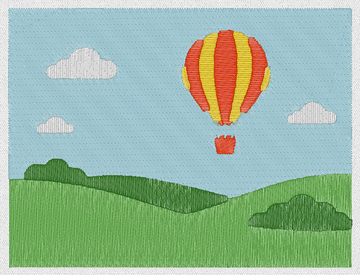
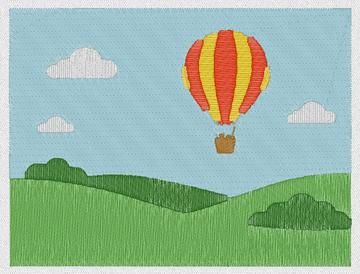
Auto Punch OpenStitch mode keeps a small distinct colour drawn as a solid patch: g02's brown basket (#962) (#969)
* Auto Punch OpenStitch mode keeps a small distinct colour drawn as a solid patch (#962)

The automatic count also counts a colour of a flat picture under AUTO_SHARE
(at least a tenth of it) that is DE76 >= 30 from every colour with a real share
and drawn as a solid patch (30 % of its pixels with all four neighbours in it):
g02's basket brown (0.47 %, chroma about 35) gets Light Brown instead of the
balloon's red. Anti-aliased seams (g08's letter edges) don't count. PE-compatible
mode unchanged. Ten image_eval cases: only g02 (6 -> 7) and g05 (7 -> 8, the
shoes' highlights) change, likeness not lower. Balloon kit file regenerated
with --only.

* clippy: is_multiple_of in solid_share (#962)

---------

diff --git a/crates/openstitch-digitize/src/palette.rs b/crates/openstitch-digitize/src/palette.rs
@@ -101,6 +101,81 @@ impl Census {
             .count()
             .clamp(1, max.max(1))
     }
+
+    /// OpenStitch mode's automatic count (#962): [`Census::auto_colors_up_to`] plus the small
+    /// colours of a flat picture that are far from every colour with a real share
+    /// ([`distinct_small`]), however unsaturated, and drawn as a solid patch, not a seam: at
+    /// least [`SOLID_SHARE`] of their pixels have all four neighbours in the same colour. g02's
+    /// basket brown holds 0.47 % of the pixels, just under [`AUTO_SHARE`], at chroma about 35,
+    /// and without a thread of its own it was sewn in the balloon's red; the anti-aliased edges
+    /// of g08's letters are as far from its colours but one or two pixels wide. `width` is the
+    /// census image's width in pixels.
+    pub fn auto_colors_distinct_up_to(&self, max: usize, width: usize) -> usize {
+        let extra = distinct_small(&self.colors)
+            .into_iter()
+            .filter(|&c| self.solid_share(c, width) >= SOLID_SHARE)
+            .count();
+        (self.auto_colors_up_to(max) + extra).clamp(1, max.max(1))
+    }
+
+    /// The share of the pixels counted under tracked colour `c` (their nearest tracked colour)
+    /// whose four neighbours are counted under it too.
+    fn solid_share(&self, c: Rgb, width: usize) -> f64 {
+        if width == 0 || !self.modal.len().is_multiple_of(width) {
+            return 0.0;
+        }
+        let height = self.modal.len() / width;
+        let of = |p: Option<Rgb>| {
+            p.is_some_and(|p| {
+                self.colors
+                    .iter()
+                    .min_by_key(|k| sq_dist(p, k.0))
+                    .is_some_and(|k| k.0 == c)
+            })
+        };
+        let mine: Vec<bool> = self.modal.iter().map(|&p| of(p)).collect();
+        let (mut all, mut solid) = (0usize, 0usize);
+        for y in 0..height {
+            for x in 0..width {
+                if !mine[y * width + x] {
+                    continue;
+                }
+                all += 1;
+                if x > 0
+                    && y > 0
+                    && x + 1 < width
+                    && y + 1 < height
+                    && [
+                        y * width + x - 1,
+                        y * width + x + 1,
+                        (y - 1) * width + x,
+                        (y + 1) * width + x,
+                    ]
+                    .iter()
+                    .all(|&i| mine[i])
+                {
+                    solid += 1;
+                }
+            }
+        }
+        if all == 0 {
+            0.0
+        } else {
+            solid as f64 / all as f64
+        }
+    }
+}
+
+/// The least share of a small colour's pixels with all four neighbours in it for OpenStitch
+/// mode's automatic count to give it a thread (#962): a solid patch, not an anti-aliased seam.
+const SOLID_SHARE: f64 = 0.3;
+
+/// The census colours of a flat picture (at most [`PROTECT_FLAT`]) smaller than
+/// [`AUTO_SHARE`] (but at least a tenth of it) and at least [`PROTECT_DE`] from every colour
+/// with a real share, at most [`PROTECT_MAX`], largest first: [`protected`] without its chroma
+/// rule (#962, OpenStitch mode).
+fn distinct_small(hist: &[(Rgb, u64)]) -> Vec<Rgb> {
+    small_colours(hist, 0.0)
 }
 
 /// A colour this saturated (CIELAB chroma) may keep its own box in PE-compatible mode however
@@ -118,6 +193,11 @@ const PROTECT_FLAT: usize = 40;
 /// most [`PROTECT_MAX`], smaller than [`AUTO_SHARE`], saturated, and far from every colour that
 /// has a real share. Largest first.
 fn protected(hist: &[(Rgb, u64)]) -> Vec<Rgb> {
+    small_colours(hist, PROTECT_CHROMA)
+}
+
+/// [`protected`] and [`distinct_small`]: the small, far colours at least `chroma` saturated.
+fn small_colours(hist: &[(Rgb, u64)], chroma: f64) -> Vec<Rgb> {
     let total: u64 = hist.iter().map(|c| c.1).sum();
     // Flat graphics only: a photo's census is full of shades, and its small saturated ones
     // are highlights PE-DESIGN merges (p07's pinks).
@@ -135,7 +215,7 @@ fn protected(hist: &[(Rgb, u64)]) -> Vec<Rgb> {
         .filter(|c| share(c) < AUTO_SHARE && share(c) >= AUTO_SHARE / 10.0)
         .filter(|c| {
             let l = crate::perceptual::lab(c.0);
-            l[1].dhypot(l[2]) >= PROTECT_CHROMA
+            l[1].dhypot(l[2]) >= chroma
                 && big.iter().all(|b| {
                     ((b[0] - l[0]).powi(2) + (b[1] - l[1]).powi(2) + (b[2] - l[2]).powi(2)).sqrt()
                         >= PROTECT_DE
@@ -1069,5 +1149,40 @@ mod nearest_in_tests {
             nearest_in([255, 255, 255], &[]),
             nearest_pec([255, 255, 255]).1
         );
+    }
+}
+
+#[cfg(test)]
+mod distinct_small_tests {
+    use super::*;
+
+    /// A 200 × 200 picture: white with a large blue disc's worth of blue, and `extra` drawn in
+    /// brown ([142, 91, 47], g02's basket: chroma about 35, ΔE 47 from the red).
+    fn picture(extra: impl Fn(u32, u32) -> bool) -> Census {
+        let image = Raster::from_fn(200, 200, |x, y| {
+            if extra(x, y) {
+                [142, 91, 47, 255]
+            } else if x < 100 {
+                [30, 60, 200, 255]
+            } else if y < 40 {
+                [229, 76, 44, 255]
+            } else {
+                [255, 255, 255, 255]
+            }
+        })
+        .expect("raster");
+        census(&image)
+    }
+
+    /// #962: OpenStitch mode's automatic count gives a small, unsaturated colour far from every
+    /// other its own thread when it is a solid patch (a 13 × 13 px square, 0.42 % of the
+    /// pixels, under AUTO_SHARE), not when it is a two-pixel seam of about the same size.
+    #[test]
+    fn a_small_distinct_patch_counts_and_a_seam_does_not() {
+        let patch = picture(|x, y| (150..163).contains(&x) && (120..133).contains(&y));
+        assert_eq!(patch.auto_colors_up_to(AUTO_MAX), 3, "the share rule alone");
+        assert_eq!(patch.auto_colors_distinct_up_to(AUTO_MAX, 200), 4);
+        let seam = picture(|x, y| (150..152).contains(&x) && (100..190).contains(&y));
+        assert_eq!(seam.auto_colors_distinct_up_to(AUTO_MAX, 200), 3);
     }
 }

diff --git a/crates/openstitch-digitize/src/autopunch.rs b/crates/openstitch-digitize/src/autopunch.rs
@@ -742,7 +742,7 @@ pub fn convert(image: &Raster, frame: &Frame, p: &AutoPunch) -> Result<Converted
     let colors = match p.colors {
         0 => match p.mode {
             Mode::PeDesign => census.auto_colors(),
-            Mode::OpenStitch => census.auto_colors_up_to(p.fidelity.auto_max()),
+            Mode::OpenStitch => census.auto_colors_distinct_up_to(p.fidelity.auto_max(), w),
         },
         n => n.min(64),
     };

diff --git a/docs/FEATURE_MATRIX.md b/docs/FEATURE_MATRIX.md
@@ -122,7 +122,7 @@ PE-DESIGN reference, sew-out) is generated from the compatibility report into
 | Lettering | Name Drop (text list replacement): Name Drop attribute fits any replacement into the text's box (maintain aspect ratio; left/center/right, top/middle/bottom; resets spacing; refused for text on a path, monograms, user-mapped text); list with one column per Name Drop text, up to 500 rows, CSV import/save; To Folder writes `<name>001…` one file per row, every row validated before anything is written | Implemented (engine, editor Lettering ▸ Name Drop List…) | `text.setNameDrop`, `nameDrop.list`, `nameDrop.apply`, `nameDrop.readCsv`, `nameDrop.writeCsv`, `nameDrop.export`; `replacement_text_fits_the_original_box`, `turning_name_drop_on_resets_spacing`, `rows_are_applied_and_exported_one_file_per_row`, `a_bad_row_writes_nothing`, `name_drop_bad_input_fails_cleanly`, `name_drop_list_edits_rows_and_exports`; examples/name-drop.json, docs/images/engine-name-drop.png, docs/images/rust-editor-name-drop.png | USB Link / Wireless Link sending to machines; live preview while moving through rows; PE-DESIGN's exact CSV layout (not described in the guide) |
 | Lettering | Converting CJK characters; TrueType conversion: a user-chosen .ttf/.otf/.ttc file is checked (24 MiB, table bounds, Unicode cmap, collection header; parser panics contained), embedded in the `.osd` (16 fonts, 40 MiB per design) and used by text objects; glyphs over 20 000 outline segments count as missing, a text is capped at 600 000; complex scripts are shaped (row above); scripts that need shaping are reported (`shaping`) only for embroidery fonts, which are not shaped | Implemented (engine, editor menu) | `fonts.loadTrueType`, `fonts.remove`, `fonts.list`; `a_user_font_lays_out_like_the_same_bundled_font`, `fonts_travel_with_the_design_and_undo`, `hostile_font_files_fail_cleanly`, `hostile_project_fonts_are_refused`, `hostile_font_files_are_refused`, `font_loading_obeys_the_sandbox_and_capabilities`, `text_in_scripts_the_font_lacks_is_missing_not_unshaped`, `cjk_text_with_the_bundled_test_font` (Noto Sans JP test subset), `cjk_text_with_a_system_font` (also, when the machine has a CJK font); examples/user-fonts.json, docs/images/engine-user-fonts.png; engine `coverage_lettering.rs`: `a_design_holds_at_most_sixteen_fonts`, `a_design_holds_at_most_forty_mib_of_fonts` | TTF Settings (style/script choice per text); font files over 24 MiB (large CJK collections); compare conversion with PE-DESIGN |
 | Digitizing | Stitch Wizard / Image To Stitch Wizard | Implemented (editor, approximation) | Design → Image to Embroidery… dialog over the `digitize.*` commands; `every_method_converts_in_one_command`, `requests_carry_the_settings`; docs/images/rust-editor-image-wizard.png, rust-editor-autopunch.png; 30 test images in `examples/images` (docs/research/test-images.md) and the README's "From image to embroidery" gallery of 14 conversions in the Realistic view (`tools/gallery.py`); same stitches on every platform: all digitizing maths through `fmath::Det`, source scan `openstitch-digitize` `tests::the_crate_uses_no_platform_transcendental_functions`, golden hashes `openstitch_mode_output_is_identical_on_every_platform` | Image preview and live result preview in the dialog; masks and cropping |
-| Digitizing | Auto Punch (mask, border, parameters) | Implemented (engine, approximation; #127 pipeline since 2026-10-29; compared with PE-DESIGN 11.50's capture 2026-10-29) | `digitize.autoPunch`; a satin region whose crossings would pass 10.5 mm (PE-DESIGN's own Auto Punch reaches 10.4 mm) is sewn as fill (#460); 3×3 modal colour census capped at 100 tracked colours, taken most frequent first with colours within RGB 32 merged so edge shades of anti-aliased images do not crowd out large colours (`palette::census`, shared with Cross Stitch; `census_keeps_a_large_colour_behind_many_edge_shades`), automatic colour count at most 10 as PE's, small-region floor `max(4, round(minArea / mmPerPx²))` pixels at 4-connectivity (`autopunch::small_region_floor`), as PE-DESIGN 11.50 decides on the round-4 bar captures: satin from 0.7 to 6.5 mm stroke width (`satinMinWidth`, `satinMaxWidth`) with Auto direction and no under sewing, fill otherwise with under sewing, in the direction of 90°, 45°, 135° or 0° whose rows spread furthest across the region, a diagonal winning over 90° only with at least one more row (`autopunch::fill_angle`; all 16 fills of the round-4 captures as PE); colours counted from the image (`colors` 0, PE's automatic Max. Number of Colors) on a working copy that keeps the image's own colours (`Raster::fit_mode`); colours sewn brightest R + G + B first, each colour's regions in scan order, reversed for the 1st, 3rd, … colour, as PE sews them; specks of 3 px (1.06 mm) and less dropped and of 5 px (1.76 mm) and more kept, as PE (`autopunch-specks-default.pes`); on the round-4 captures 2011 / 3100 / 4380 / 4361 stitches against PE's 2018 / 3197 / 4482 / 4436 (thin bars, wide bars, shapes, moved shapes), with PE's satin/fill choice, directions and colour order on all; flat graphics (at most 5 automatic colours at the working size, `autopunch::FLAT_COLORS`; #443, 2026-11-05): PE-compatible mode traces them at twice the working size with the threads still chosen at the working size, pixels keep the shades of their colour against a flat neighbour (`Census::labels`; the colour count uses the exact modal), and satin regions made of straight bars are sewn bar by bar straight across (T: bar 90°, stem 0°; H: stems 0°, crossbar 90°, as PE; `columns::split`) and curved strokes (S, C) along rungs square to their centre line (`columns::rungs`); photographs and paintings convert as before; bold lettering (round-5 `g08-lettering__autopunch.pes`): 1,247 stitches, 2 sewn colours, 1.0 % sharp turns between consecutive stitches against PE's 1,268, 2 and 0.7 % (main before: 1,504, 3 with a grey, 5.8 %); docs/images/digitize-autopunch.png; `openstitch-digitize::autopunch`: `regions_colours_and_sew_types`, `holes_are_traced`, `small_specks_merge_into_neighbours`, `census_is_modal_and_capped_at_100_colours`, `small_region_floor_formula`, `regions_at_the_floor_go_and_above_it_stay`, `satin_is_decided_by_stroke_width`, `bar_widths_choose_satin_and_fill_as_pe_design`, `colours_sew_in_pe_design_order_wherever_they_are`, `working_copy_adds_no_blended_colours`, `bar_choices_hold_at_every_working_resolution`, `stroke_width_is_exact_for_odd_and_even_widths`, `specks_survive_and_sew_as_pe_design`, `right_triangle_fills_at_45_degrees`, `fill_direction_spreads_the_rows_furthest`, `curves_are_fitted_on_round_shapes_and_optional`, `hostile_images_fail_cleanly`, `bold_lettering_sews_clean_columns_in_three_colours`, `straight_bars_split_and_curves_do_not`, `a_bar_cut_from_its_letter_gets_clean_ends` and design `auto_satin_on_a_straight_bar_travels_along_its_outline` (a bar's outline is its hull, so its rows don't break into slivers sewn over the column; bars and one-section Auto satin travel 0.5 mm inside the outline to the far end, as PE-DESIGN's g08 I does, not diagonally through the column; g08 1,215 stitches, MS-SSIM 0.9376 → 0.9402); own algorithm (ARCHITECTURE.md → Digitizing) | Mask/border options; per-colour sew choices; PE's thread picks after reduction (a fixed per-colour mapping, 13 of 20 flat colours as OpenStitch's nearest thread; no tested distance reproduces it; Ver4 Option Color picks depend on the image);  Noise reduction and Segmentation sensitivity sliders; a capture where a region turns satin |
+| Digitizing | Auto Punch (mask, border, parameters) | Implemented (engine, approximation; #127 pipeline since 2026-10-29; compared with PE-DESIGN 11.50's capture 2026-10-29) | `digitize.autoPunch`; a satin region whose crossings would pass 10.5 mm (PE-DESIGN's own Auto Punch reaches 10.4 mm) is sewn as fill (#460); 3×3 modal colour census capped at 100 tracked colours, taken most frequent first with colours within RGB 32 merged so edge shades of anti-aliased images do not crowd out large colours (`palette::census`, shared with Cross Stitch; `census_keeps_a_large_colour_behind_many_edge_shades`), automatic colour count at most 10 as PE's (in OpenStitch mode also a small colour, under 0.5 % of the pixels, of a flat picture that is ΔE ≥ 30 from every larger one and drawn as a solid patch, not an anti-aliased seam: g02's basket brown, #962; `a_small_distinct_patch_counts_and_a_seam_does_not`), small-region floor `max(4, round(minArea / mmPerPx²))` pixels at 4-connectivity (`autopunch::small_region_floor`), as PE-DESIGN 11.50 decides on the round-4 bar captures: satin from 0.7 to 6.5 mm stroke width (`satinMinWidth`, `satinMaxWidth`) with Auto direction and no under sewing, fill otherwise with under sewing, in the direction of 90°, 45°, 135° or 0° whose rows spread furthest across the region, a diagonal winning over 90° only with at least one more row (`autopunch::fill_angle`; all 16 fills of the round-4 captures as PE); colours counted from the image (`colors` 0, PE's automatic Max. Number of Colors) on a working copy that keeps the image's own colours (`Raster::fit_mode`); colours sewn brightest R + G + B first, each colour's regions in scan order, reversed for the 1st, 3rd, … colour, as PE sews them; specks of 3 px (1.06 mm) and less dropped and of 5 px (1.76 mm) and more kept, as PE (`autopunch-specks-default.pes`); on the round-4 captures 2011 / 3100 / 4380 / 4361 stitches against PE's 2018 / 3197 / 4482 / 4436 (thin bars, wide bars, shapes, moved shapes), with PE's satin/fill choice, directions and colour order on all; flat graphics (at most 5 automatic colours at the working size, `autopunch::FLAT_COLORS`; #443, 2026-11-05): PE-compatible mode traces them at twice the working size with the threads still chosen at the working size, pixels keep the shades of their colour against a flat neighbour (`Census::labels`; the colour count uses the exact modal), and satin regions made of straight bars are sewn bar by bar straight across (T: bar 90°, stem 0°; H: stems 0°, crossbar 90°, as PE; `columns::split`) and curved strokes (S, C) along rungs square to their centre line (`columns::rungs`); photographs and paintings convert as before; bold lettering (round-5 `g08-lettering__autopunch.pes`): 1,247 stitches, 2 sewn colours, 1.0 % sharp turns between consecutive stitches against PE's 1,268, 2 and 0.7 % (main before: 1,504, 3 with a grey, 5.8 %); docs/images/digitize-autopunch.png; `openstitch-digitize::autopunch`: `regions_colours_and_sew_types`, `holes_are_traced`, `small_specks_merge_into_neighbours`, `census_is_modal_and_capped_at_100_colours`, `small_region_floor_formula`, `regions_at_the_floor_go_and_above_it_stay`, `satin_is_decided_by_stroke_width`, `bar_widths_choose_satin_and_fill_as_pe_design`, `colours_sew_in_pe_design_order_wherever_they_are`, `working_copy_adds_no_blended_colours`, `bar_choices_hold_at_every_working_resolution`, `stroke_width_is_exact_for_odd_and_even_widths`, `specks_survive_and_sew_as_pe_design`, `right_triangle_fills_at_45_degrees`, `fill_direction_spreads_the_rows_furthest`, `curves_are_fitted_on_round_shapes_and_optional`, `hostile_images_fail_cleanly`, `bold_lettering_sews_clean_columns_in_three_colours`, `straight_bars_split_and_curves_do_not`, `a_bar_cut_from_its_letter_gets_clean_ends` and design `auto_satin_on_a_straight_bar_travels_along_its_outline` (a bar's outline is its hull, so its rows don't break into slivers sewn over the column; bars and one-section Auto satin travel 0.5 mm inside the outline to the far end, as PE-DESIGN's g08 I does, not diagonally through the column; g08 1,215 stitches, MS-SSIM 0.9376 → 0.9402); own algorithm (ARCHITECTURE.md → Digitizing) | Mask/border options; per-colour sew choices; PE's thread picks after reduction (a fixed per-colour mapping, 13 of 20 flat colours as OpenStitch's nearest thread; no tested distance reproduces it; Ver4 Option Color picks depend on the image);  Noise reduction and Segmentation sensitivity sliders; a capture where a region turns satin |
 | Digitizing | Cross Stitch from image | Implemented (engine, approximation; shared prepass and documented defaults per #132; PE-DESIGN's cell stitching since 2026-10-29) | `digitize.crossStitch` (cellSize 2.5 mm, colors 0 = automatic, type full/half, times single/triple, skipBackground); colours reduced through Auto Punch's census prepass (`palette::census`, `Palette::from_census`); grid `round(width / cell) × round(height / cell)`; a cell is the thread most of its modal pixels have (ties to the lower thread, mostly transparent cells empty); colours sewn brightest R + G + B first as in PE; each cell six stitches on its diagonals as PE-DESIGN sews it (each diagonal whole once and in halves through the centre once); on the round-4 capture `crossstitch-default.pes` 2841 stitches against PE's 2866, cells per colour within one of PE's on three colours; docs/images/digitize-cross-stitch.png; `openstitch-digitize::cross`: `grid_cells_colours_and_crosses`, `half_crosses_and_determinism`, `defaults_are_documented_and_configurable`, `grid_follows_the_cell_size`, `colours_come_from_the_shared_census`, `triple_sews_each_diagonal_three_times`, `cells_are_six_diagonal_stitches_as_pe_design_sews_them`, `hostile_grids_fail_cleanly`; OpenStitch mode (`compatMode: openStitch`, B16.1 T14, 2026-10-31): each cell its mean CIELAB colour matched to the census's perceptual palette, and filled crosses (`fill`, default on): parallel diagonals 0.3 mm apart in both directions, sewn as zigzags along each row run, a run budget of 2.8 needle points per mm² stepped down to 2.0 until the design holds at most 2.05 (the owner's limits: 2.1 over the design, 3.0 in any 10 × 10 mm window), stitches 1–6 mm; similarity score (`tools/image_similarity.py`, flat render) on seven test images 51.3 → 70.2, the pixel strawberry 59.1 → 82.5, design means ≤ 1.94 and every 10 × 10 mm window ≤ 2.49 points/mm²; optional part-crosses (`partCrosses`, off by default, owner 2026-10-31): a cell whose halves along a diagonal differ becomes a three-quarter and a quarter cross (filled: lines parallel to the diagonal), seven images 70.2 → 71.1; `open_stitch_cells_take_their_mean_colour`, `open_stitch_fills_the_cells`, `open_stitch_fill_limits_and_options`, `open_stitch_part_crosses_split_cells_along_a_diagonal` | PE's travel between runs along the diagonals (one jump per colour; OpenStitch jumps between row runs); edge-cell assignment (yellow 88 cells against PE's 94); backstitch; the wizard's Triple choice; converting to the Cross stitch region type instead of stitch objects; OpenStitch mode: thread selection T4 and broader charts T5 (the strawberry's target 85 needs them: 85.7 with exact colours), the image dialog's Mode choice for Cross Stitch |
 | Digitizing | Photo Stitch 1 and Photo Stitch 2 | Implemented (engine, approximation; mono tone pipeline per #128; Photo Stitch 1 defaults from PE-DESIGN 11.50's capture since 2026-10-29) | `digitize.photoStitch` (style fill/lines, mode color/mono, sewPage, maxDensity, direction, colorSet auto/cmyk/rgbk/cryk/bmyk); lines style is PE-DESIGN 11.50's Photo Stitch 2 line screen since 2026-10-30 (#129, `screen.rs`): one fixed angle per thread (0°/45°/90°/135° in sewing order), lines 2.0 mm apart, 2.5 mm runs where the colour is not needed and a zigzag 90 % of the interval deep where it is, 4 colours by default; on the round-4 capture 13 701 stitches against PE's 14 133, own-area densities 280–292 against 296–298 needle points per cm², white 21–24 against 21–23, one jump a thread as PE (`tools/screencmp.py`, docs/research/photo-stitch-2-halftone.md); named Color Sets as PE's four fixed threads, every set sewn most-used thread first as PE's (owner shapes and colour ramp), shares raised to full for saturated colours (named sets −1.8 to −6.4 % stitches against PE, were −8 to −15 %), Direction turning the screen (30°: 30/75/120/165 as PE), Line interval and Max. Density as PE's (3 mm / 2.5: 6666 against 6842 stitches), Mono's tone ramp as PE's (4671 against 4665); fill defaults as PE-DESIGN 11.50's Photo Stitch 1: Sew Page Color on in Color mode (the page colour is a thread sewn first; Mono has none and leaves light areas unsewn, as PE's), Run Pitch 3.0 mm, 10 colours, 0.25 mm rows for its density (12 860 needle points against PE's 12 255 on the round-4 capture; tone bands within 11 % of PE's but blue +35 %); mono uses integer Rec. 601 luminance `(30 R + 59 G + 11 B) / 100` and full-range min/max auto-levels with the (1, 255) range guard (`raster::luma601`, `photo::auto_levels`); docs/images/digitize-photo-fill.png, digitize-photo-lines.png; `openstitch-digitize::photo`: `mono_fill_density_follows_tone`, `colour_fill_separates_threads`, `luminance_uses_the_30_59_11_weights`, `mono_stretch_is_full_range_auto_levels`, `low_contrast_gradient_sews_like_the_full_one`, `page_colour_is_sewn_first_by_default`, `mono_leaves_light_areas_unsewn_by_default`, `runs_are_joined_nearest_first`, `compatible_fill_travels_hidden_instead_of_jumping`, `line_screen_meets_pe_design_capture`, `mono_screen_follows_darkness_and_runs_on_through_white`, `screen_shares_mix_threads_over_the_fabric`, `screen_angles_are_a_fixed_set`, `named_color_sets_sew_their_threads_in_order`, `direction_interval_and_density_shape_the_screen`, `mono_screen_ramps_from_light_to_full`, `screen_sews_the_most_used_thread_first`, `hostile_inputs_fail_cleanly` | PE's stitch path (contour-following meanders of 3 mm runs, 1-5 jumps a colour; OpenStitch sews staggered rows, runs joined nearest first since 2026-10-30: 99 trims on the mono capture and 249 on the colour one, against PE's 2 and 6, where it trimmed 426 and 1158; since 2026-11-05, #298, a thread travels hidden under its own cells and the darker layers sewn after it to its next run instead of jumping: trims per 1,000 stitches 3–15 on the nine Photo Stitch 1 cases, were 11–46, and every photo's likeness the same or higher but the high-key one's, −0.07 on average over five widths, within the scorer's ±0.3 spread); PE's thread choice (10 threads mixed in pairs per colour area); sepia/grey re-tone, masks; Mono density (3225 stitches against PE's 2917 on the round-4 grey capture, +11 %, was +39 %); Photo Stitch 2's exact transitions between neighbouring set colours (CMYK collapses green to blue onto cyan; the CMYK ramp sews 11 % fewer stitches than PE) and Auto Select's thread choice (PE always picks four, adding ultramarine and lime green to a red-and-blue image) |
 | Machine | Transfer via USB media: removable volumes detected per OS without FFI (macOS `diskutil` USB/SD ejectable, Linux `/proc/mounts` + sysfs removable/USB, Windows CIM drive type 2); writes the machine file to the volume root with a FAT-safe name, asks before overwriting | Implemented | `transfer.volumes`, `transfer.send`; `diskutil_plists_tell_usb_sticks_from_internal_disks_and_images`, `linux_mounts_keep_removable_block_devices`, `windows_query_lines_become_drive_roots`, `writes_plain_names_to_the_volume_root_without_overwriting`, `send_only_targets_detected_removable_volumes`, `clients_without_file_access_cannot_list_or_send`; editor File ▸ Send to USB Media (docs/images/rust-editor-usb.png) | Not yet run against a real USB stick on each OS; folder and naming rules on the machine side are not documented by Brother |

diff --git a/docs/COMPATIBILITY_AUDIT.md b/docs/COMPATIBILITY_AUDIT.md
@@ -31,6 +31,26 @@ Each item has an evidence grade:
 | **Needs reference** | The behaviour is undocumented. The exact values need a black-box reference (see below). |
 | **Defect** | Wrong regardless of PE-DESIGN, for example a needle path no embroidery program produces. |
 
+### Auto Punch's OpenStitch mode keeps a small distinct colour, 2026-11-12 (#962)
+
+At its automatic colour count, OpenStitch mode gave the balloon picture (g02) six threads. There was no brown: the basket was sewn in the balloon's red, and a rope was lost.
+- **Cause:** the basket's brown holds 0.47 % of the pixels, just under `AUTO_SHARE` (0.5 %). PE-compatible mode's protection of small colours (#447) needs chroma ≥ 50, and the brown's is about 35. This is the cause #469 recorded on 2026-11-08, when a chroma-30 protection was tried in PE-compatible mode and not taken: it moved g08 and g15 away from PE-DESIGN's counts.
+- **Change, OpenStitch mode only:** the count (`Census::auto_colors_distinct_up_to`) also counts each colour of a flat picture (at most 40 census colours) that meets three conditions:
+  - between 0.05 and 0.5 % of the pixels;
+  - ΔE76 ≥ 30 from every colour with a real share;
+  - drawn as a solid patch: at least 30 % of its pixels have all four neighbours in it.
+- **Why the patch condition:** colour distance alone also counted g08's anti-aliased letter edges, which gained a grey and a mid blue (3 → 5 colours, trims 4 → 7); the patch condition rejects them. PE-compatible mode is unchanged.
+
+The ten Auto Punch cases of `tools/image_eval.py`, OpenStitch mode, 100 mm (`tools/image_similarity.py --mode openstitch --no-dists`):
+
+| case | colours | mean ΔE00 | MS-SSIM | trims |
+|---|---|---|---|---|
+| g02 balloon | 6 → **7** (Light Brown for the basket) | 10.71 → 10.69 | 0.783 → 0.787 | 15 → 18 |
+| g05 robot | 7 → 8 (Light Blue, the shoes' highlights) | 8.07 → 8.02 | 0.8747 → 0.8744 | 128 → 126 |
+| g01, g06, g08, g11, g13, g15, p03, d01 | unchanged | unchanged | unchanged | unchanged |
+
+Test: `a_small_distinct_patch_counts_and_a_seam_does_not`.
+
 ### REA evidence
 
 No item has REA evidence, for two reasons:

diff --git a/examples/sew/README.md b/examples/sew/README.md
@@ -581,13 +581,13 @@ Each image tool on a test image, in both of its modes: PE-DESIGN-compatible mode
 
 #### Auto Punch, OpenStitch mode
 
-[`image-tools/S-autopunch-balloon-openstitch.pes`](image-tools/S-autopunch-balloon-openstitch.pes) · 100 × 100 mm hoop · 90 × 67.9 mm · 7,869 stitches · 15 trims · about 10.6 min
+[`image-tools/S-autopunch-balloon-openstitch.pes`](image-tools/S-autopunch-balloon-openstitch.pes) · 100 × 100 mm hoop · 90 × 67.9 mm · 7,899 stitches · 16 trims · about 10.7 min
 
 `g02-balloon.png` through Auto Punch at its defaults in OpenStitch mode, fitted to the 100 × 100 mm hoop. Sew both modes of the same image to compare them on fabric.
 
 <img src="../images/g02-balloon.png" height="180" alt="Source image"> <img src="previews/S-autopunch-balloon-openstitch.png" height="180" alt="Realistic view of image-tools/S-autopunch-balloon-openstitch.pes">
 
-Threads, in sewing order: 001 White, 206 Harvest Gold, 017 Light Blue, 509 Leaf Green, 030 Vermillion, 515 Moss Green.
+Threads, in sewing order: 001 White, 206 Harvest Gold, 017 Light Blue, 509 Leaf Green, 323 Light Brown, 030 Vermillion, 515 Moss Green.
 
 #### Auto Punch, PE-DESIGN-compatible mode
 
